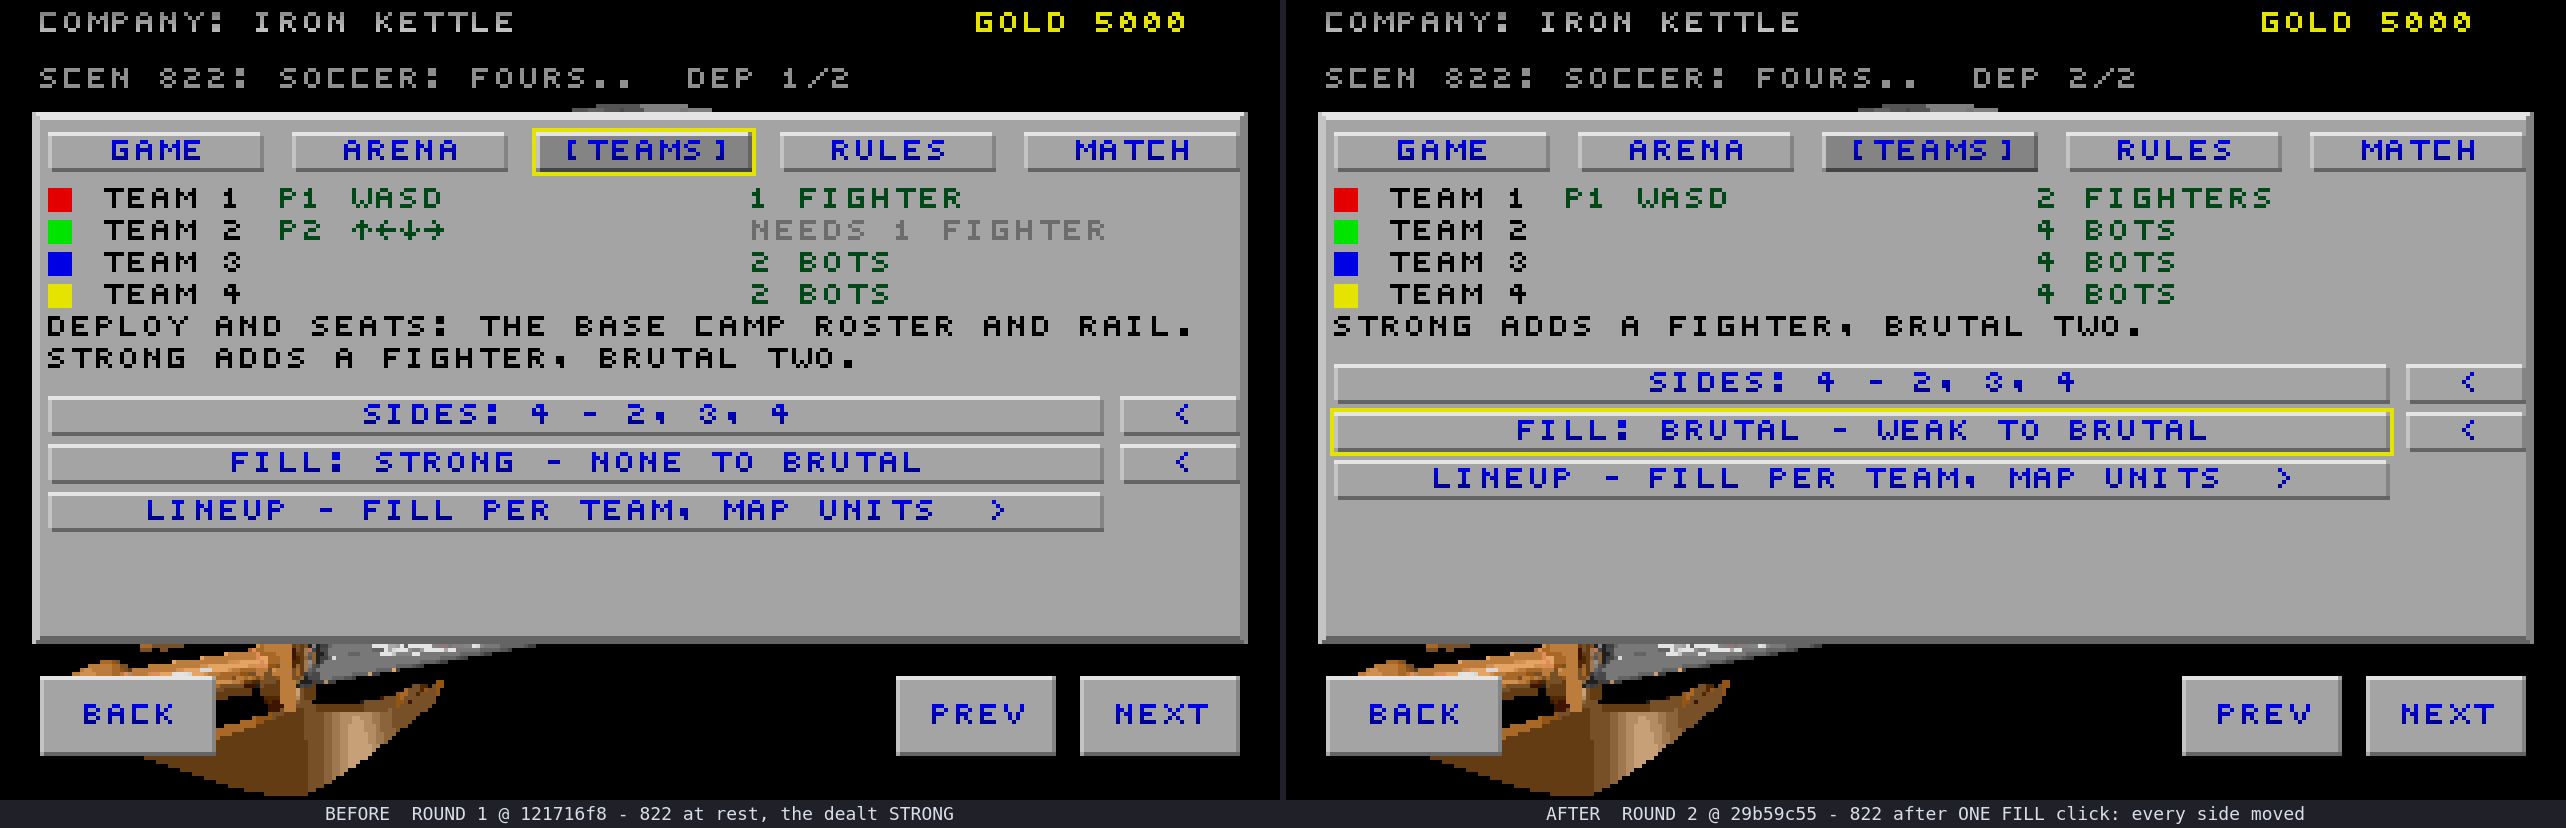
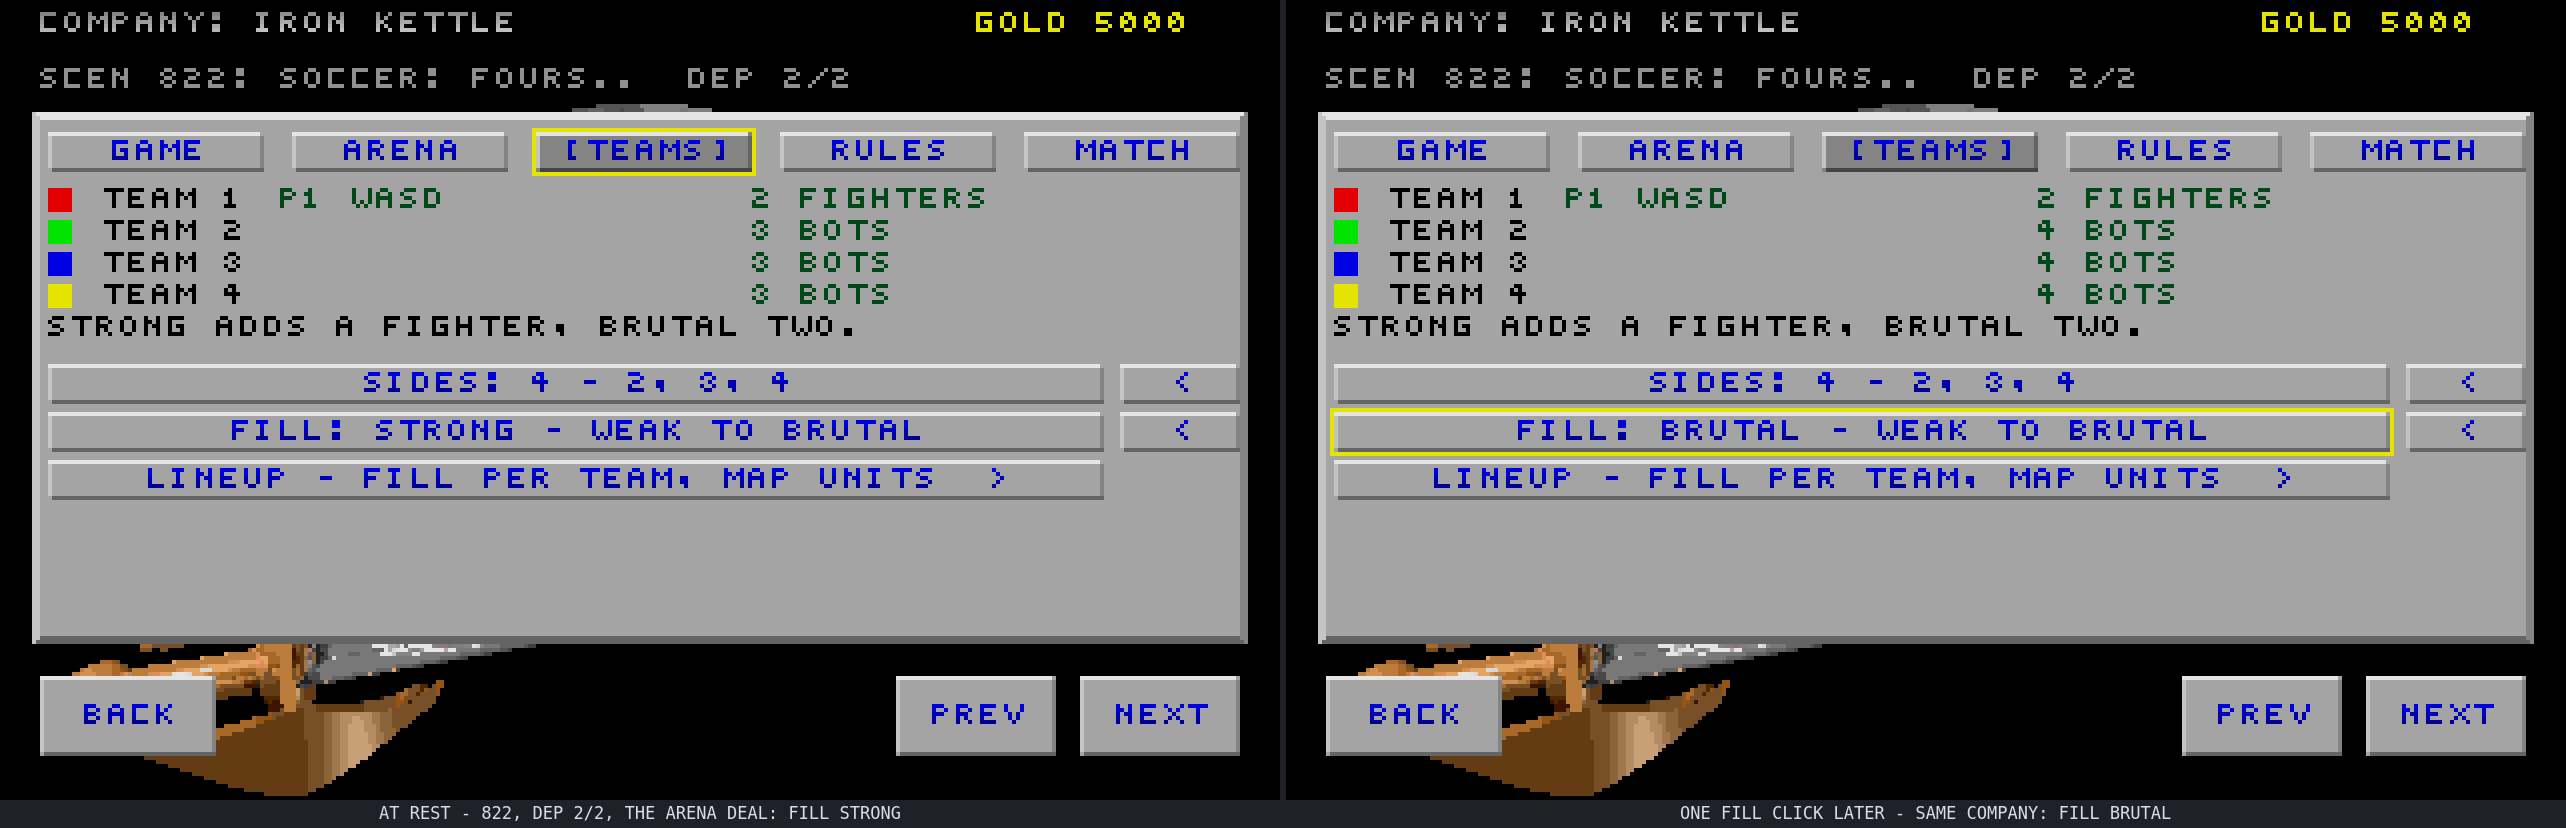
pr-307: the four-side FILL pair gets a BEFORE from its own flow
Review of the round-2 package caught the evidence, not the fix: the pair's
BEFORE half was setup_step_teams_four_sides, the GO-gate flow's deliberately
under-deployed company (DEP 1/2, one fighter, a P2 seat), while the brutal and
healed halves come from the FILL flow's two-fighter company. Each frame was
right on its own, but read as a pair "one click" appeared to add two bodies
per side.

The FILL flow now takes its own BEFORE frames at openglad a21c4c77:

  r2_setup_step_teams_four_sides_rest   822, DEP 2/2, 2 FIGHTERS, SIDES: 4,
                                        FILL: STRONG, 3 BOTS on teams 2-4
  r2_setup_step_teams_four_sides_empty  the trap: every band set to NONE in
                                        LINEUP -- SIDES: 1, FILL: NONE,
                                        NO FIGHTERS on teams 2-4

r2_cmp_teams_four_sides is now rest -> brutal and r2_cmp_teams_trap is empty ->
healed: one company, one click, in both. The brutal and healed PNGs are
unchanged and re-converted byte-identical from the new run, which is the
evidence that only the frame count changed.

READBACK-round2.md records all of it, including the one thing the frames and
the text census do not share: the screenshots are a two-fighter company and the
transcripts are a one-human one, so the same click reads 3 -> 4 bots in the
pictures and 2 -> 3 in the census.

diff --git a/pr-307/READBACK-round2.md b/pr-307/READBACK-round2.md
@@ -15,6 +15,19 @@ Every SDL run used `SDL_VIDEODRIVER=dummy SDL_AUDIODRIVER=dummy
 SDL_RENDER_DRIVER=software`, a scratch `OPENGLAD_CONFIG_DIR`, and was followed
 by `git status --porcelain cfg/` (empty every time).
 
+**Update (2026-09-20, after review).** The four-side FILL frames were re-taken
+from the worktree at `arena/r2-wp5` commit `a21c4c77` (the build stamps itself
+`cf46b31a+`, the commit before the amend; these frames carry no stamp). The
+reason: the pair's BEFORE half used to be `setup_step_teams_four_sides`, which
+comes from the GO-gate flow's deliberately under-deployed company — DEP 1/2,
+ONE fighter, a P2 seat waiting on TEAM 2 — while `_brutal` and `_healed` come
+from the FILL flow's two-fighter company. Each frame was right on its own, but
+across the pair "one click" silently added a fighter too. The FILL flow now
+takes its own BEFORE frames, `_rest` and `_empty`, so the only difference
+inside each pair is the click. `_brutal` and `_healed` re-converted
+**byte-identical** to the copies taken at `29b59c55`, which is the evidence
+that the capture edit changed nothing but the number of frames.
+
 **I read every image in this directory back, at 1x and 4x, before the PR body
 was touched.** What follows is what each one actually shows.
 
@@ -72,9 +85,11 @@ and they do not clash: the camp row agrees with the line above it.
 | `setup_step_game` | `[GAME]` pressed in and bracketed. **No `Cleared:` line.** Seven game rows reading `<GAME> - N ARENAS  >` and, LAST, `RANDOM - ANY GAME, ANY ARENA` (no ` >`, because it acts rather than descends). The keyboard highlight is on SOCCER, the current game. Footer `BACK` and `NEXT`, no PREV. |
 | `setup_step_arena` | `[ARENA]`. **One** line, the game's own: `KICK THE BALL INTO THEIR GOAL.` Four green arena rows; `THE PITCH … [CURRENT]` is highlighted; **THE MUDBOWL (821) is a played arena on this company and carries no tail at all.** Last row `RANDOM ARENA - ANY ARENA OF THIS GAME`, grey because it is an action. |
 | `setup_step_teams` | Two swatched team lines (`TEAM 1 P1 WASD 2 FIGHTERS`, `TEAM 2 3 BOTS`), the campaign line, then `FILL: STRONG - WEAK TO BRUTAL` with its `<` cell and the LINEUP door. No SIDES row — the arena authors two sides. **The note reads `WEAK TO BRUTAL`**: NONE is off this wheel. |
-| `setup_step_teams_four_sides` | 822 FOURSQUARE at rest: four swatched lines, TEAM 2 dimmed `NEEDS 1 FIGHTER`, TEAM 3 and 4 `2 BOTS`, the pointer line, `SIDES: 4`, `FILL: STRONG - WEAK TO BRUTAL`, LINEUP. |
-| `setup_step_teams_four_sides_brutal` | The same arena after ONE FILL click: `FILL: BRUTAL`, and **TEAM 2, TEAM 3 and TEAM 4 all read `4 BOTS`** against the company's `2 FIGHTERS`. `SIDES: 4` is unchanged. This is the reported bug, closed. |
-| `setup_step_teams_four_sides_healed` | The closed trap: every band wheeled to NONE in LINEUP, then one FILL click. `SIDES: 4`, `FILL: WEAK`, and `2 BOTS` on all three AI sides — not one side, and not a collapse to SIDES 2. |
+| `setup_step_teams_four_sides` | The GO-gate flow's 822, DEP **1/2**, ONE fighter: four swatched lines, TEAM 2 dimmed `NEEDS 1 FIGHTER`, TEAM 3 and 4 `2 BOTS`, `SIDES: 4`, `FILL: STRONG - WEAK TO BRUTAL`. A different company from the three below, so it is **not** used as any pair's BEFORE any more; it stays as the GO-gating witness. |
+| `setup_step_teams_four_sides_rest` | The FILL flow's 822, DEP **2/2**, `2 FIGHTERS`: `3 BOTS` on TEAM 2, 3 and 4 (a fresh ball arena deals STRONG, and STRONG is one more than the humans), `SIDES: 4`, `FILL: STRONG - WEAK TO BRUTAL`, LINEUP. The highlight is still on the `[TEAMS]` tab — nothing has been clicked on this step yet. |
+| `setup_step_teams_four_sides_brutal` | The same company one FILL click later: `FILL: BRUTAL` (highlighted), and **TEAM 2, 3 and 4 all read `4 BOTS`** against the same `2 FIGHTERS`. `SIDES: 4` unchanged, `DEP 2/2` unchanged. Every AI side moved, by one body each. This is the reported bug, closed. |
+| `setup_step_teams_four_sides_empty` | The trap itself, same company: every band wheeled to NONE on the LINEUP page. `SIDES: 1`, `FILL: NONE - WEAK TO BRUTAL`, and `NO FIGHTERS` on TEAM 2, 3 and 4. (The first take of this frame showed the stale BRUTAL census under `FILL: NONE`; the capture now waits for the queued restage, and this one is settled.) |
+| `setup_step_teams_four_sides_healed` | One FILL click out of that collapse: `SIDES: 4`, `FILL: WEAK`, and `2 BOTS` on all three AI sides — not one side, and not a collapse to SIDES 2. |
 | `setup_step_rules` | `[RULES]`. The pointer line `RESPAWNS AND THE REST: THE BASE CAMP DIFFICULTY.` (48 glyphs, last glyph inside the panel's 310 edge), then exactly two cycler rows, `SCORE: MAP - MAP, 1, 3, 5, 10` and `TIME LIMIT: MAP - MAP, 5 TO 20 MIN`, each with its `<` cell. Nothing else on the step. |
 | `setup_step_match` | `[MATCH]`. `SOCCER: THE PITCH`; two swatched census rows; and **all four rules lines survive** — `SCORE`/`TIME LIMIT`, `RESPAWNS`/`SPAWN DELAY`, `PERMADEATH`/`GENERATORS`, `DIFFICULTY`/`INFINITE GOLD`. The recap still states the whole match (R2-3). Then `VIEW LEVEL …  >` and a green `GO`. |
 | `setup_go_gated` | The MATCH step on 822, DEP 1/2: `SOCCER: FOURSQUARE`, **four** swatched census rows (`MATCHED BOTS (2) STRONG` on green, blue and yellow), all four rules lines, and `GO - DEPLOY FOR EVERY PLAYER` on the dimmed face. The gating is unchanged by round 2, and this frame is a second witness that the MATCH recap kept every rule line. |
@@ -98,8 +113,8 @@ frames themselves are untouched.
 | `r2_cmp_game` | round-1 `setup_step_game_x4` beside round-2's |
 | `r2_cmp_arena` | round-1 `setup_step_arena_x4` beside round-2's |
 | `r2_cmp_rules` | round-1 `setup_step_rules_x4` (eight rows) beside round-2's (two rows + the pointer line) |
-| `r2_cmp_teams_four_sides` | round-1 822 **at rest** beside round-2 822 **after one FILL click**. The captions say exactly that: the round-1 tree has no captured frame of a four-side arena after a FILL click, so the bug itself is evidenced by the text census, not by this pair. |
-| `r2_cmp_teams_trap` | round-2 only: 822 at rest beside 822 after every band was wheeled to NONE in LINEUP and ONE FILL click was made |
+| `r2_cmp_teams_four_sides` | `_rest` beside `_brutal`: ONE company (IRON KETTLE, 822, DEP 2/2, 2 FIGHTERS), ONE click apart. `3 BOTS` × 3 / STRONG → `4 BOTS` × 3 / BRUTAL. Both halves are this tip; the round-1 tree never captured a four-side arena after a FILL click, so the bug's before-state is evidenced by the text census, and this pair shows the fixed behaviour rather than a cross-tree diff. |
+| `r2_cmp_teams_trap` | `_empty` beside `_healed`, the same company again: `SIDES: 1` / `FILL: NONE` / `NO FIGHTERS` × 3 → `SIDES: 4` / `FILL: WEAK` / `2 BOTS` × 3, one click. |
 | `r2_cmp_campaign_card` | round-1 card beside round-2's |
 | `r2_cmp_stamp` | the two main menus stacked, stamps visible |
 
@@ -120,3 +135,7 @@ frames themselves are untouched.
 - **No round-1 four-side-after-FILL frame.** The round-1 tree captured that
   arena only at rest, so the bug's before-state is evidenced by the FB §1.3
   transcript and by the prose, not by a photograph.
+- **The screenshots are a TWO-fighter company; the text census is a ONE-human
+  one.** Bodies count off the humans (STRONG = humans + 1, BRUTAL = humans +
+  2), so the same click reads 3 → 4 BOTS in the frames and 2 → 3 in the
+  transcript. The PR body says so where both are quoted.
